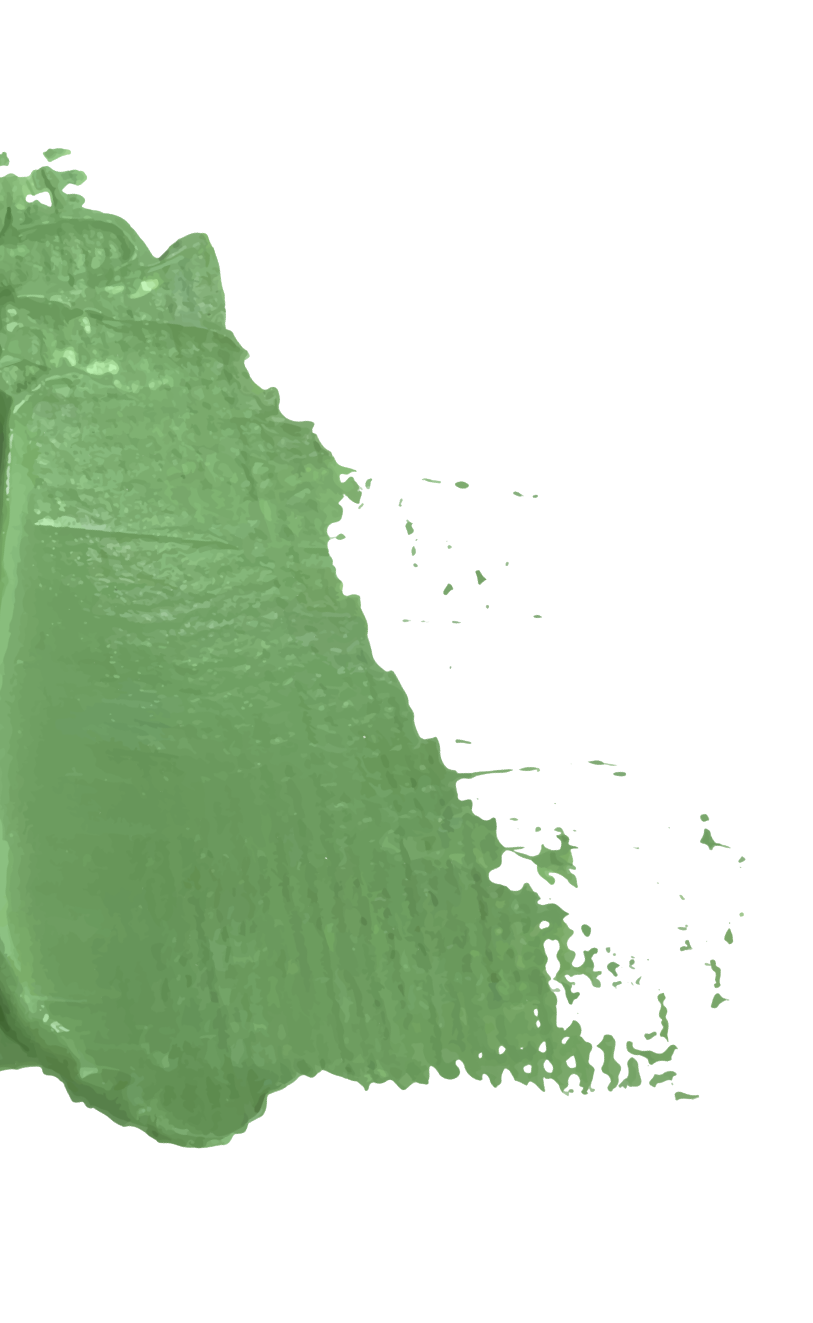
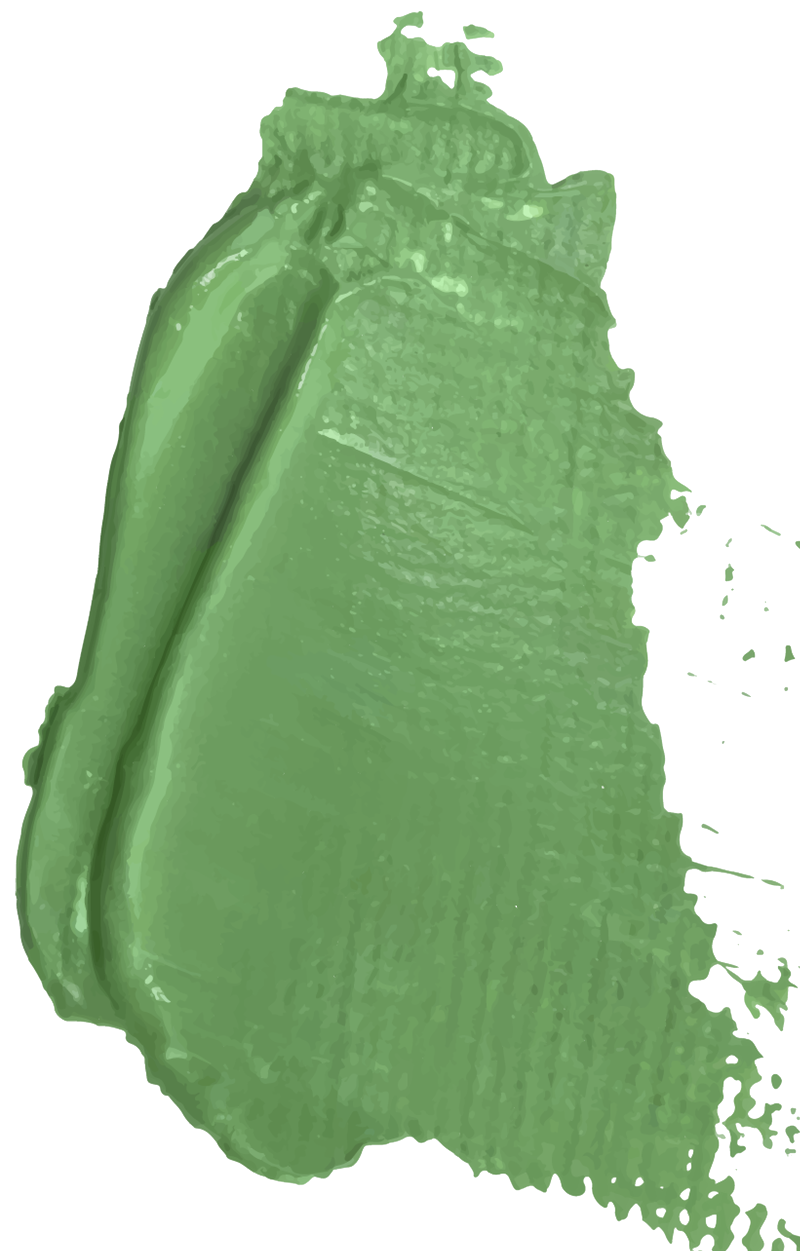
strokes-merge: единая pg-система без дублей; вырезки из исходника; правило против параллельных правок

diff --git a/index.html b/index.html
@@ -554,6 +554,7 @@ body.pg-tools #strokeTr{background-image:url(assets/stroke-yellow.png);top:-20px
 body.pg-tools #strokeBl{display:none;}
 body.pg-values #strokeTr{display:none;}
 body.pg-values #strokeBl{background-image:url(assets/stroke-sky.png);left:auto;right:-60px;bottom:-100px;width:460px;height:460px;}
+/* pg home/methodology/templates — единая система выше (коммит 51d4c7c) */
 body.pg-case #strokeTr,body.pg-case #strokeBl{display:none;}
 @media (max-width:760px){.paint-stroke.tr{width:240px;height:280px;right:-30px;top:-20px;}.paint-stroke.bl{display:none;}}
 

diff --git a/DESIGN-RULES.md b/DESIGN-RULES.md
@@ -12,6 +12,9 @@
   (https://jsluev.github.io/yakki-baza-znanii/). Не трогать.
 - Дизайн — только здесь: `C:\opencodework\Якки-дизайн` + репо
   `yakki-baza-znanii-design` (https://jsluev.github.io/yakki-baza-znanii-design/).
+- Возможна параллельная работа в том же чекауте: перед коммитом всегда
+  `git pull` + `git status`; чужие незакоммиченные файлы не коммитить;
+  имена ассетов и CSS-классы согласовывать, дубли удалять.
 
 ## 1. Токены
 
@@ -76,12 +79,13 @@
 - **Крошки** 16px/500: корень — «ЯККИ», остальные уровни — opacity .5.
 - **Мазки** — только фон: `position:absolute` в `main` (скроллятся со
   страницей, `z-index:-1`), `pointer-events:none`, пустой `alt`, vivid без
-  opacity. Видны ТОЛЬКО на designed-страницах (base `display:none`):
-  all — синий TR + оранжевый BL; cases — зелёный BL; tools — жёлтый TR;
-  values — голубой BR. На остальных (включая результаты, синглы, главную) —
-  скрыты. Используются ОРИГИНАЛЫ из `figma2209/*.png` (ужаты в `assets/`,
-  белый вырезан в альфу); повороты — из CSS-координат макетов
-  (all: −14°/−172°, cases: −18°).
+  opacity. Видны ТОЛЬКО на: all (синий TR −14° + оранжевый BL −172°),
+  cases (terracotta TR + зелёный BL −18°), tools (жёлтый TR),
+  values (голубой BR), home (periwinkle), methodology (maroon),
+  templates (teal). Остальные (результаты, синглы) — скрыты.
+  Файлы `assets/stroke-*.png` — вырезки из `figma2209/всемазкивместе.png`
+  (скрипт `splitstrokes.py`, белый вырезан в альфу). НЕ плодить дублирующих
+  имён; позиции — из CSS-координат макетов.
 
 ## 4. Адаптив (принципы)
 
